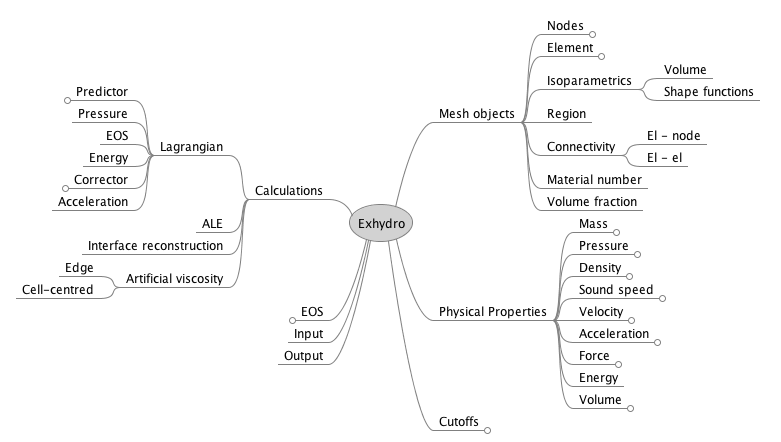
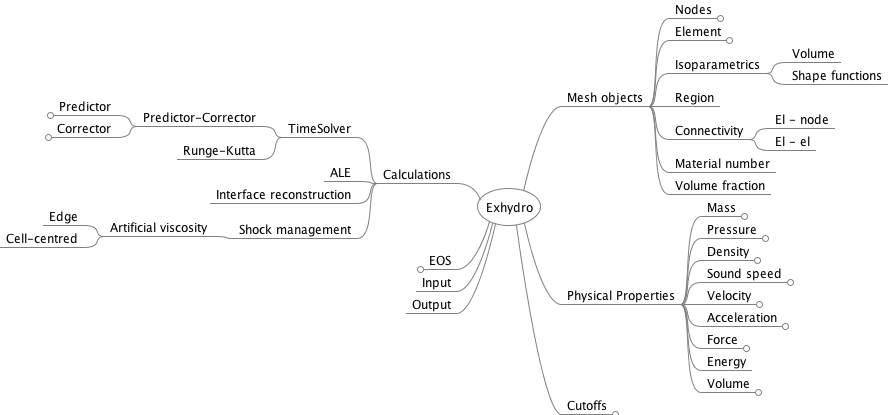
Time solver additions.

Changed region(s): [[0.0, 0.0, 1.0, 0.9542], [0.5531, 0.9253, 0.7068, 1.0]]

diff --git a/include/Energy.h b/include/Energy.h
@@ -19,22 +19,22 @@ class Energy : public ScalarProperty {
 public:
 
     Energy();
-	void update(Force &force,
-				Velocity &velocity,
-				Mass &mass,
-			    double masscut,
-				double timestep,
-			    int nvertices,
-			    int dim,
-				vector< vector<int> > &el2nodmap);
+    void update(Force &force,
+            Velocity &velocity,
+            Mass &mass,
+            double masscut,
+            double timestep,
+            int nvertices,
+            int dim,
+            vector< vector<int> > &el2nodmap);
 
-	void update(Pressure &pressure,
-	            ArtificialViscosity & q,
-	            Mass &mass,
-	            Velocity &velocity,
-	            double timestep);
+    void update(Pressure &pressure,
+            ArtificialViscosity & q,
+            Mass &mass,
+            Velocity &velocity,
+            double timestep);
 
-	void print();
+    void print();
 
 };
 
@@ -53,23 +53,23 @@ Energy::Energy() {
  * @param el2nodmap - map element number to node number
  */
 void Energy::update(Force &force,
-                    Velocity &velocity,
-                    Mass &mass,
-                    double masscut,
-                    double timestep,
-                    int nvertices,
-                    int dim,
-                    vector< vector<int> > &el2nodmap)
+        Velocity &velocity,
+        Mass &mass,
+        double masscut,
+        double timestep,
+        int nvertices,
+        int dim,
+        vector< vector<int> > &el2nodmap)
 {
-	for (int el= 0; el < data.size(); el++) {
-		for (int v = 0; v < nvertices; v++) {
+    for (int el= 0; el < data.size(); el++) {
+        for (int v = 0; v < nvertices; v++) {
 
-			int node = el2nodmap[el][v];
-			double m = max(mass.get(el), masscut);
+            int node = el2nodmap[el][v];
+            double m = max(mass.get(el), masscut);
 
-			data[el] += -(force.get(node,dim) * velocity.get(node,dim)) * timestep / m;
-		}
-	}
+            data[el] += -(force.get(node,dim) * velocity.get(node,dim)) * timestep / m;
+        }
+    }
 
 }
 
@@ -77,15 +77,20 @@ void Energy::update(Force &force,
  * Updates energy using standard PDV method
  */
 void Energy::update(Mesh &mesh,
-                    Pressure &pressure,
-                    ArtificialViscosity & q,
-                    Velocity &velocity,
-                    double timestep) {
+        Pressure &pressure,
+        ArtificialViscosity &q,
+        Velocity &velocity,
+        Mass &mass,
+        double timestep) {
+
+    // find divergence of velocity field
+    divvel = mesh.calcDiv(velocity);
 
     for (int el= 0; el < data.size(); el++) {
-        // find divergence of velocity field
         // add pressure and artificial viscosity
+        double p = pressure.get(el)+q.get(el);
         // update energy by dt*(p+q)*div.v/M
+        data[el] += 0.5*timestep * p * divvel[el]/mass[el];
 
     }
 

diff --git a/include/Velocity.h b/include/Velocity.h
@@ -9,6 +9,8 @@
 
 #include "VectorProperty.h"
 #include "Acceleration.h"
+#include "Pressure.h"
+#include "Mass.h"
 
 #ifndef VELOCITY_H_
 #define VELOCITY_H_
@@ -18,7 +20,8 @@ class Velocity : public VectorProperty {
 public:
 
     Velocity();
-	void update(Acceleration &acceleration, double timestep);
+	void update(Acceleration &acceleration, double timestep, int DIMS);
+	void update(Pressure &pressure, Mass &mass, double timestep, int DIMS);
 
 };
 
@@ -31,13 +34,30 @@ Velocity::Velocity() {
  * @param acceleration
  * @param timestep
  */
-void Velocity::update(Acceleration &acceleration, double timestep, int dim) {
+void Velocity::update(Acceleration &acceleration, double timestep, int DIMS) {
 
 	for (int i= 0; i < data.size(); i++) {
+	    for (int d = 0; d < DIMS; d++) {
 
-		data[i][dim] += accel.get(i,dim) * timestep;
-
+	        data[i][d] += accel.get(i,d) * timestep;
+	    }
 	}
+}
+
+/**
+ * Update velocities using pressure
+ * @param acceleration
+ * @param timestep
+ */
+void Velocity::update(Mesh &mesh, Pressure &pressure, Mass &mass, double timestep, int DIMS) {
+
+    vector<double> divpress = mesh.calDiv(pressure);
+    for (int i= 0; i < data.size(); i++) {
+        for (int d = 0; d < DIMS; d++) {
+            data[i][d] += accel.get(i,d) * timestep;
+        }
+
+    }
 }
 
 

diff --git a/src/Mesh.cpp b/src/Mesh.cpp
@@ -203,11 +203,13 @@ void Mesh::addRegion(int noElements[2], double extents[2], double origin[2], int
 }
 
 /**
- * Return divergence of a property
+ * Return divergence of a property per element
+ * @param VectorProperty vector property you need to calculate divergence for
  */
-vector<double> Mesh::calDivPerElement(VectorProperty &vp) {
+vector<double> Mesh::calcDiv(VectorProperty &vp) {
 
     //get integral of partial derivative shape functions
+    //*** need to generalise this divergence calculation routine **
     double intpdeshapefunction[noVertices][DIMS];
     vector<double> div;
     double x[noVertices];
@@ -221,6 +223,7 @@ vector<double> Mesh::calDivPerElement(VectorProperty &vp) {
         }
         iso.intPartialDerivative(intpdeshapefunction, *x, *y);
 
+        //multiply for each node along each dimension to get divergence in a element
         double d = 0.0;
         for(int j=0; j < noVertices; j++) {
             int node = el2nodemap[i][2];
@@ -228,10 +231,10 @@ vector<double> Mesh::calDivPerElement(VectorProperty &vp) {
                 d += vp[node][k] * intpdeshapefunction[j][k];
             }
         }
-
-
+        div.push_back(d);
     }
-    //multiply for each node along each dimension to get divergence in a element
+
+    return div;
 
 
 }

diff --git a/src/PredictorCorrector.cpp b/src/PredictorCorrector.cpp
@@ -14,14 +14,17 @@ void PredictorCorrector::solve(Mesh &mesh,
                                Density &density,
                                Energy &energy,
                                Pressure &pressure,
-                               SoundSpeed2 &ccs2) {
+                               SoundSpeed2 &ccs2,
+                               Velocity &velocity,
+                               Volume &volume,
+                               Mass &mass) {
 
     double time = starttime;
 
     while (time < endtime) {
 
         //Predictor half step
-        halfstep(mesh,density,energy,pressure,ccs2,velocity,artvisc,dt/2);
+        halfstep(mesh,density,energy,pressure,ccs2,velocity,volume,mass,artvisc,dt/2);
 
         // Calculate velocity
 
@@ -63,11 +66,13 @@ void PredictorCorrector::halfstep(Mesh &mesh,
     density.update(mass, volume);
 
     // Calculate energy
-    energy.update
+    energy.update(mesh, pressure, artvisc, velocity, mass, timestep);
 
     // Calculate pressure
+    pressure.update(density, energy);
 
     // Calculate sound speed
+    ccs2.update(energy);
 
 
 

diff --git a/include/Pressure.h b/include/Pressure.h
@@ -22,7 +22,7 @@ class Pressure : public ScalarProperty {
 public:
 
     Pressure();
-	void updatePressure(Density &density, Energy &energy);
+	void update(Density &density, Energy &energy);
 	void print();
 
 };
@@ -34,7 +34,7 @@ Pressure::Pressure() {
 /**
  * EOS substitute for now
  */
-void Pressure::updatePressure(Density &density, Energy &energy) {
+void Pressure::update(Density &density, Energy &energy) {
 
 
 	for (int i= 0; i < data.size(); i++) {

diff --git a/include/SoundSpeed2.h b/include/SoundSpeed2.h
@@ -22,7 +22,7 @@ class SoundSpeed2 : public ScalarProperty {
 public:
 
     SoundSpeed2();
-    void updateSoundSpeed(Energy &energy);
+    void update(Energy &energy);
     void print();
 
 };
@@ -35,7 +35,7 @@ SoundSpeed2::SoundSpeed2() {
 /**
  * EOS substitute for now
  */
-void SoundSpeed2::updateSoundSpeed(Energy &energy) {
+void SoundSpeed2::update(Energy &energy) {
 
 
     for (int i= 0; i < data.size(); i++) {

diff --git a/src/exhydro.cpp b/src/exhydro.cpp
@@ -65,8 +65,8 @@ void init2DSod(Mesh &mesh,
 	density.setRegion(regionInfo, 2, 0.125);
 	energy.setRegion(regionInfo, 2, 2.0);
 
-	pressure.updatePressure(density.getData(), energy.getData());
-	ccs2.updateSoundSpeed(energy.getData());
+	pressure.update(density, energy);
+	ccs2.update(energy);
 
 	volume.update(mesh);
 	mass.update(density, volume);

diff --git a/include/PredictorCorrector.h b/include/PredictorCorrector.h
@@ -28,8 +28,8 @@ public:
              Density &density,
              Energy &energy,
              Pressure &pressure,
-             SoundSpeed2 &ccs2,
-             Velocity &velocity);
+             Velocity &velocity,
+             SoundSpeed2 &ccs2);
 
   void halfstep(Mesh &mesh,
                 Density &density,

diff --git a/include/Mesh.h b/include/Mesh.h
@@ -73,7 +73,7 @@ public:
 
     double getVolume(int index);
 
-    vector<double> calDivPerElement(VectorProperty &vp);
+    vector<double> calcDiv(VectorProperty &vp);
 
 private:
     Position _nodepositions; //node positions
